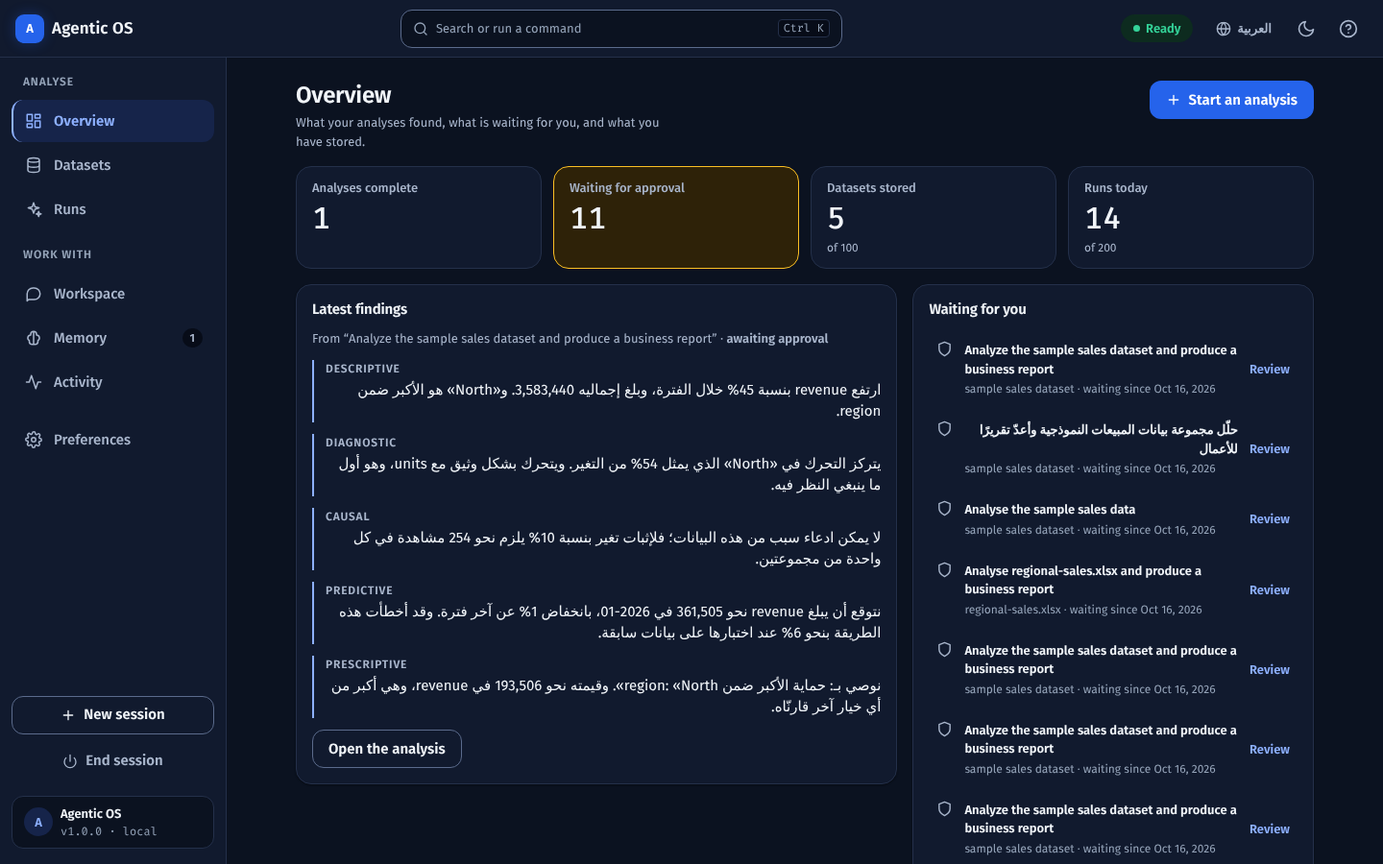
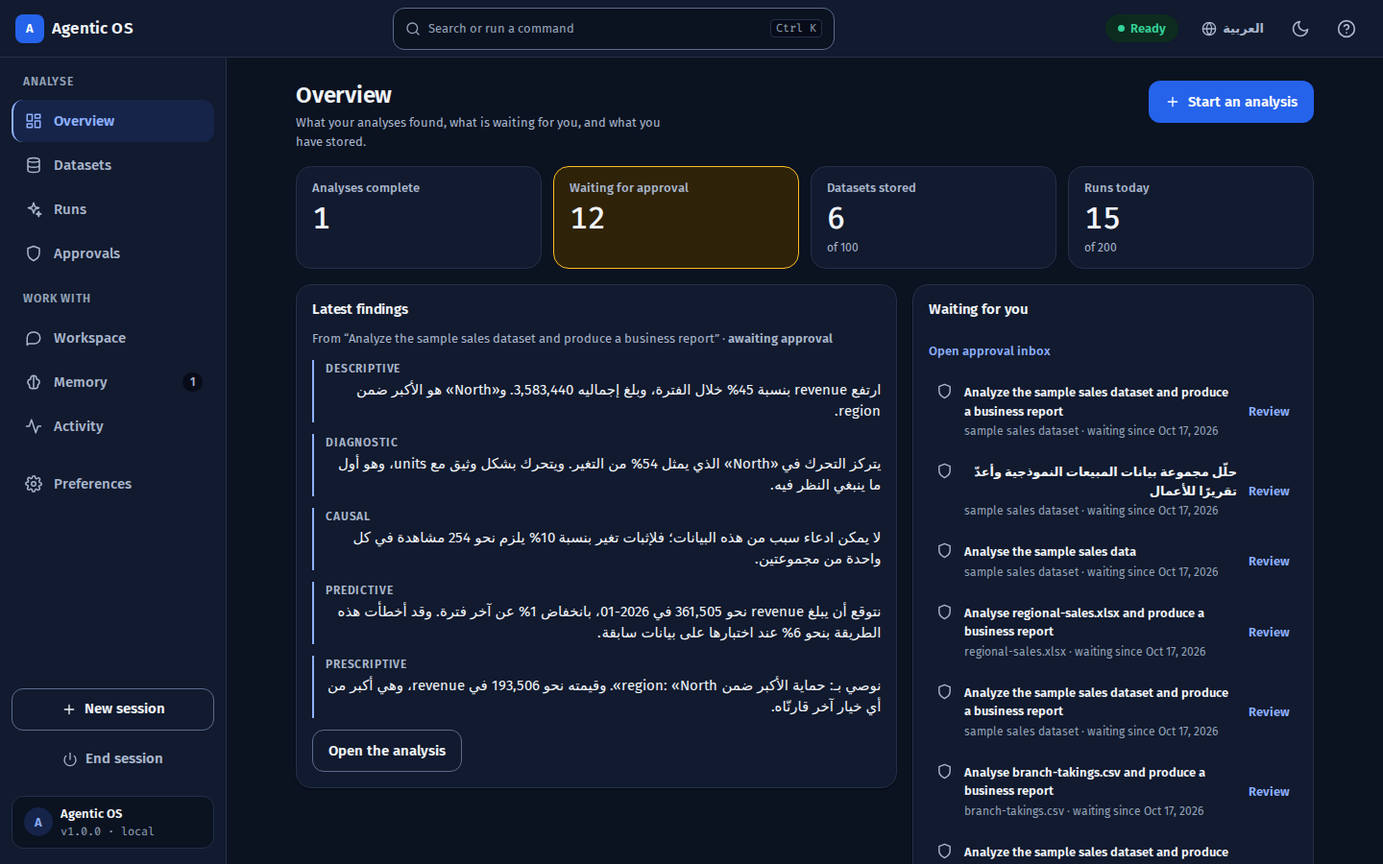
Deliver editable UI handoff, final validation and actual browser screenshots
Link the Figma designs and component/API specification from README. Record the passing final-source CI, bundle sizes, screenshot provenance and remaining human, platform and performance observations. Preserve the concurrent verification entry and its revision-specific Lighthouse results. Replace the screenshot set with real captures from the latest passing backend journey.

diff --git a/docs/design/VALIDATION.md b/docs/design/VALIDATION.md
@@ -1,63 +1,62 @@
 # Interface validation record
 
-Date: 2026-10-17. This record distinguishes source review, executable checks and design previews.
+Date: 2026-10-17. Design previews, executable checks and human usability observations are recorded separately.
 
-## Local evidence
+## Runtime evidence
 
-- The pure Python analytics, assistant, utilities and documentation subset passed. Full API tests stalled inside FastAPI TestClient's AnyIO portal in this execution environment; the two stalled test processes were stopped. No full local-suite pass is claimed.
-- Dependency-free snapshot, event, custom-stage and calculation-table checks passed when executed directly with Node. The frontend package cache is incomplete; npm cannot reach its configured proxy under the current command sandbox, so TypeScript, Vitest, build and browser verification are pending GitHub Actions.
-- The first deterministic review scorecard was 40%: brain and dependency-free checks passed; the three package-dependent gates did not run successfully. This is not a product-quality score. No gate was accepted on the user's behalf.
-- Two independent read-only source reviews found skip-link/hash routing, exact-report availability, Arabic comprehensive calculation headers, dialog overflow, draft recovery, hidden install-event capture and chunk-retry issues. Fixes and regression checks were added. Runtime results are recorded below only after CI produces them.
-- Editable Figma screens were rendered and visually inspected. These are design previews; they do not prove browser behavior, WCAG conformance, native installation or user task timing.
+Final run: [39019826211](https://github.com/ahmadzayan-hub/agentic-os-final-project/actions/runs/39019826211), source `972f581813187abc48e6ae76bdb7b579d47956ad`. Status: **passed**, completed 17 October 2026 at 09:14 UTC.
 
-## Local evidence, Claude Code session, against `d53397d`
+This run verifies the real sample journey, report review and publishing, recovered drafts, delayed-response recovery, report-language preservation, evidence-dialog focus and rendered phone touch targets. Current test counts and expected skips are maintained only in [README](../../README.md#testing).
 
-`python scripts/verify.py --e2e` with PostgreSQL, on 2026-10-17. This environment has npm, PostgreSQL 16 and a pre-installed Chromium, so the package-dependent gates ran here.
+The CI workflow runs the Python suite with PostgreSQL, frontend unit tests, TypeScript and Vite build, strict brain/snapshot contracts, Playwright, axe and the existing interface-budget function. It retains the production bundle, actual browser screenshots and any failure traces in `agentic-ui-evidence`.
 
-- **First run of `8a72368`:**
-    - The type check failed with 19 errors: six new strings sat in the plural dictionaries. Fixed in `5738d39`.
-    - Nine browser checks then failed. One was an app bug: a saved goal draft hid the dataset the reader had just chosen, now scoped per dataset in `ecf0d78`. The rest were tests that predate the kept-alive views and grouped bands.
-- **Result on `d53397d`, all seven steps passed:**
-    - 865 Python tests, 16 skipped for optional libraries;
-    - brain check clean;
-    - type check;
-    - 84 frontend unit tests;
-    - production build;
-    - interface budget;
-    - 80 browser checks: 76 passed, 4 skipped by design because each covers one viewport.
-- **Budget, gzipped:**
-    - first-load JavaScript 91.9 of 100 KB;
-    - all JavaScript 117.2 of 160 KB;
-    - largest on-demand chunk 7.3 of 30 KB;
-    - CSS 9.2 of 10 KB;
-    - fonts 119.4 of 120 KB.
-    - Before ADR 0029, first load was 85.7 KB and CSS 7.7 KB. CSS has 0.8 KB left.
-- **Lighthouse 13.4.1, mobile, three runs on the same build (median):**
-    - Performance 99, Accessibility 100;
-    - first and largest contentful paint 1.55 s;
-    - total blocking time 38 ms;
-    - layout shift 0.000;
-    - 25.2 KB of JavaScript unused at load.
-    - These are lab figures from a local server, not real-user Web Vitals; INP needs real use.
-- `15d8a41` came after this run and is left to CI.
+Earlier runs exposed misplaced translation keys, selectors that assumed inactive views were unmounted, cancellation masked by a retained pause flag, dataset draft context, and drawer focus restoration. These were corrected; assertions about actual backend behavior were retained. Source reviews also corrected exact-artifact review, Arabic table headers, bounded dialogs, install-event capture, language-of-parts tags and lazy-load recovery.
 
-## Required CI evidence
+## Measured budget
 
-The existing CI workflow runs Python with PostgreSQL, frontend unit tests, typecheck/build, Playwright and automated accessibility checks. This change also adds brain/snapshot contracts, the existing interface-budget function, and an `agentic-ui-evidence` artifact containing the production bundle, real browser screenshots and any test traces.
+Final source `972f581`, [CI measurement](https://github.com/ahmadzayan-hub/agentic-os-final-project/actions/runs/39019826211), gzip level 9, decimal KB:
 
-CI commit, workflow URL, measured sizes and final results: pending the branch update and completed workflow. Do not copy historical README counts into this section as current evidence.
+| Shipped resource | Measured | Existing limit |
+| --- | ---: | ---: |
+| First-load JavaScript | 92.0 KB | 100 KB |
+| All JavaScript | 117.4 KB | 160 KB |
+| Largest deferred JavaScript chunk | 7.4 KB | 30 KB |
+| CSS | 9.3 KB | 10 KB |
+| Fonts | 119.4 KB | 120 KB |
 
-## Acceptance targets
+The first-load, total and deferred-chunk limits come from the existing ADR 0028; this implementation did not raise them. New views, translations and recovery behavior add shipped code. The generated decorative WebP adds 53,592 bytes independently of JavaScript and is cached with the shell. No new runtime dependency or font weight was added.
 
-| Target | Evidence required | Current status |
-| --- | --- | --- |
-| Manager identifies main finding and next action within ten seconds | Timed representative-manager usability task | Not observed; finding and decision are explicit in the design and implementation |
-| Evidence reached within two interactions | Browser journey from finding card to evidence | Passes locally on desktop and phone (`d53397d`) |
-| Keyboard-only approval | Browser focus/Enter and dialog navigation | Passes locally on desktop and phone (`d53397d`) |
-| Interrupted draft recovered | Navigate, reload and failed-send recovery | Unit and browser checks pass locally (`d53397d`) |
-| Arabic phone journey | Real Arabic report at 390 px; 320 px overflow check and axe | Passes locally at 390 and 320 px, with axe (`d53397d`) |
-| Both themes, larger text, landscape and reduced motion | Browser/device review | Reduced-motion existing suite retained; additional manual/device review remains open |
-| Windows, Android and iOS installation | Actual platform installation and launcher test | Not observed; browser-guided PWA support only |
-| Bundle and Web Vitals | Production sizes; Lighthouse or real-user performance | Bundle within budget; Lighthouse lab LCP 1.55 s, CLS 0.000, TBT 38 ms (local). No real-user INP |
+Final-source LCP, CLS and INP were not measured. A separate Claude Code environment recorded the earlier `d53397d` build below. Neither those laboratory results nor historical ADR 0028 results measure the final source or real-user INP. A fresh final-source performance run remains open.
 
-Open items remain unaccepted until evidence or an explicit named-owner decision resolves them.
+## Earlier independent local verification
+
+The concurrent Claude Code session recorded `python scripts/verify.py --e2e` with PostgreSQL on `d53397d` in [commit 6e8f254](https://github.com/ahmadzayan-hub/agentic-os-final-project/commit/6e8f2546f7109d7bfa632a75684769697155f713). Its environment had npm, PostgreSQL 16 and pre-installed Chromium. All verification steps passed, including browser and axe checks. Its local optional-library skips differ from CI; current CI counts are maintained in README.
+
+That build measured 91.9 KB first-load JavaScript, 117.2 KB total JavaScript, 7.3 KB largest deferred chunk, 9.2 KB CSS and 119.4 KB fonts. Lighthouse 13.4.1 mobile, median of three runs against the local server: Performance 99, Accessibility 100, first and largest contentful paint 1.55 s, total blocking time 38 ms, layout shift 0.000 and 25.2 KB JavaScript unused at load. These are laboratory observations reported by that session, not measurements repeated in the Codex sandbox or real-user Web Vitals. Later changes include the publication action, evidence initial focus and larger touch targets.
+
+## Acceptance observations
+
+| Target | Observed result and remaining work |
+| --- | --- |
+| Manager identifies finding and next action within ten seconds | Not observed with a representative manager. The finding, state and decision are explicit; a timed human task is still required. |
+| Evidence within two interactions | The browser journey opens returned claims, references and calculation tables directly from a finding. Evidence initially shows its heading; Escape restores the triggering control. |
+| Keyboard approval | The real inbox journey activates Review and the exact report with Enter, tabs to Approve and publish, and waits for server confirmation and its publication path. |
+| Interrupted text recovered | Component checks cover refused sends and remount recovery; browser checks cover navigation/reload of composer and question drafts. A held start response preserves the new destination and the durable analysis can be reopened. |
+| Arabic phone journey | A real Arabic report, evidence table and axe scan pass at 390 px, with the bounded dialog and no page overflow also checked at 320 px. Stored English report parts retain English after switching the interface to Arabic. |
+| 44 × 44 px targets | The Arabic-phone browser regression measures every visible button in the run cockpit and passes the minimum dimensions. Shared styles enlarge compact controls; switches preserve their visual track inside a larger touch area. This task is not a complete real-device target audit. |
+| Responsive layouts and themes | The retained suite covers desktop and phone, 320/768/1024 px layouts, light/dark, English/Arabic, and reduced motion. Larger text, broader landscape use and assistive-technology testing remain human review tasks. |
+| Windows, Android and iOS | PWA manifest, install-event handling, safe-area layout and bilingual browser installation guidance are delivered. Actual installation on those operating systems was not observed; signed native packages are outside this delivery. |
+
+Question and composer drafts stay in sessionStorage for this tab/session. Pasted CSV and selected File objects require re-selection after reload; raw data is excluded from draft storage. API responses are never service-worker cached, so a cold offline launch can recover the shell but cannot fetch private reports.
+
+Repeated clicks are guarded and consequential failed POSTs are reconciled by reading state, without automatic replay. An uncertain run-creation response still needs review of recent analyses: server idempotency keys for creation are a separate API proposal. Same-analysis multi-tab behavior is specified against authoritative server snapshots and leases; a separate two-tab browser task was not performed.
+
+## Design and local evidence
+
+[Figma](https://www.figma.com/design/nLdKZ5cVOtRMTWEvhCJSEK) contains native editable components and representative English/Arabic, light/dark, desktop/phone frames. They were rendered and visually inspected. They are design previews, not application screenshots.
+
[1 lines of base64/hex data omitted]
+
+In the Codex workspace, strict brain, documentation and dependency-free snapshot checks passed. npm access was blocked by the command sandbox, and full API attempts stalled in TestClient's AnyIO portal; no full-suite pass in this sandbox is claimed. The independent local session above and GitHub Actions supply runtime evidence. The first Codex deterministic scorecard was 40% because package-dependent gates could not execute; it is not a product-quality score or an accepted exception.
+
+Open human, native-device and performance observations remain unaccepted until evidence or an explicit named-owner decision resolves them.

diff --git a/docs/design/AGENTIC_UI_SPEC.md b/docs/design/AGENTIC_UI_SPEC.md
@@ -22,7 +22,7 @@ Addresses are `#/overview`, `#/datasets`, `#/runs`, `#/runs/{id}`, `#/approvals`
 4. **Inspect:** show the first finding in the header, four main perspective cards, and the separate Experiment report. “Why is this true?” opens the relevant stage's claims, references, precise checks and report calculations.
 5. **Review:** display the exact report and publication metadata in ApprovalCard. The full report is available through an expandable, bounded, keyboard-scrollable preview. A missing report disables publishing.
 6. **Approve or reject:** lock the decision while awaiting the server. A failure triggers a state read; it never automatically repeats publication. A changed artifact requires a valid new server approval.
-7. **Published:** show success only when `report.published_path` is returned. Display that path. Reopen the run from its link for later review. The server filesystem path is text, not an invented web URL.
+7. **Published:** show success only when `report.published_path` is returned. Display that path and make “Read the published report” the primary action; it focuses the exact returned report. Reopen the run from its link for later review. The server filesystem path is text, not an invented web URL.
 
 ## Screen inventory and Figma
 
@@ -52,7 +52,7 @@ Representative source facts: revenue rose 45%, total revenue 3,583,440; North is
 | EvidencePanel | Reach support within one finding action; task claims/evidence, checks and report content | Current React | Empty claims/calculations explain availability; bounded dialog, horizontal table region, Escape and focus restoration |
 | ApprovalCard / ApprovalsView | Decide on exact artifact; `listRuns`, `getRun`, `decideApproval`, RunApproval and report identity/version/content | Current React | Loading/retry, exact preview, disabled pending buttons; reconcile refusals without replaying POST; show path only after server confirmation |
 | ResultCard / ToolCards | Move from conversation to result; TranscriptEntry action/result/steps | Current React | Recognize start_run/run_status/explain_report/runtime plus returned run ID; memory/preference labels; unknown action remains plain text; failed run read keeps navigation available |
-| Composer / question draft | Recover interrupted text; existing send operation and scoped sessionStorage | Current React | Keep input after a refused/failed send; retain edits made during sending; text survives reload in the same tab; unavailable storage falls back to live state |
+| Composer / question draft | Recover interrupted text; existing send operation and scoped sessionStorage | Current React | Keep input after a refused/failed send; retain edits made during sending; questions are scoped to their dataset preset; restored user text is distinct from generated suggestions; unavailable storage falls back to live state |
 | InstallApp / installStore | Use the workspace from OS launcher; beforeinstallprompt, appinstalled, standalone detection | Current PWA enhancement | Capture event at boot; browser-confirmed installed state; failed prompt offers browser-menu instructions; server needed for operations |
 | Memory / Activity / Preferences | Maintain context; existing session APIs and activity store | Existing capability retained | Search/edit/delete confirmation, timestamped health and existing operation outcomes; both languages and themes |
 | Structured calculation resolver | Directly open a particular calculation from `c_change` | Future API | Needs calculation ID, label, value, units, method, source references and report identity/version; no inferred client mapping |
@@ -81,7 +81,7 @@ Use `tokens.css` as authority: navy/blue/amber, flat surfaces, restrained border
 
 At 1440 px the cockpit has findings plus contextual workflow; below 1200 px it becomes one column. At 768 px retain readable gutters, wrap context and actions. At 390 px the workflow starts collapsed, evidence uses a bounded dialog, and bottom navigation leaves safe-area clearance. At 320 px tables scroll in labelled regions while the page stays within the viewport. Keep the cockpit's essential controls sticky; long goals and large text need browser validation so they do not obscure focus.
 
-Use 44 × 44 CSS px minimum controls, visible focus, semantic buttons/details/tabs and restrained polite announcements of actual changes. Dialogs trap focus and restore it. The navigation drawer traps Tab and makes the main area inert. The command palette supports Ctrl/⌘K. Status includes words and symbols. Respect both system and app reduced-motion choices; retain 140/220 ms token transitions otherwise.
+Use 44 × 44 CSS px minimum controls, visible focus, semantic buttons/details/tabs and restrained polite announcements of actual changes. Compact legacy buttons are enlarged, and switches keep their visual track inside a larger touch area. Dialogs trap focus and restore it; long evidence opens at the dialog heading rather than jumping to a table. The navigation drawer traps Tab, makes the main area inert and restores its opener. The command palette supports Ctrl/⌘K. Status includes words and symbols. Respect both system and app reduced-motion choices; retain 140/220 ms token transitions otherwise.
 
 Arabic mirrors application navigation, rows and alignment using document RTL and logical properties. Mixed filenames and paths use bdi or explicit direction. Digits remain 0–9. Stored report language is fixed at run creation and has its own lang/dir, independent of interface language.
 

diff --git a/project-progress.md b/project-progress.md
@@ -41,12 +41,12 @@ Last updated: 2026-10-17, session `7ba0117d`. The session-end skill keeps this f
     - The typeface is IBM Plex Sans with IBM Plex Sans Arabic, the user's choice; Dubai can replace it if its files are supplied.
 - **House style: done 2026-10-17.** `.claude/skills/rta-style/` (colours, type and layout only, no logo, name or data) themes the offline dashboards, the clips and the evaluation report, checked for AA contrast in light and dark.
 - **Views load on demand: done 2026-10-17** (ADR 0028). The chat and the shell ship first; the other views and dialogs are chunks fetched when shown, and prefetched in idle time. First load fell from 96.7 to 85.7 KB gzipped, and Lighthouse's unused script halved, but load speed did not measurably change (mobile 98 against 99, largest paint 2.13 s both). The budget now counts the first load, all scripts and the largest chunk.
-- **Governed UI, implementation under verification (ADR 0029):** editable Figma light/dark and Arabic phone designs, shared run snapshots, grouped progress, exact-report approvals inbox, evidence dialog, assistant result cards, hash deep links, scoped text drafts, upload previews and PWA installation guidance. Existing on-demand loaders and their idle prefetch are retained. [Handoff and actual validation status](docs/design/AGENTIC_UI_SPEC.md). Verified locally on `d53397d`: all seven `verify.py --e2e` steps, with 76 of 80 browser checks run and passing and 4 skipped by design. First-load JavaScript is 91.9 of 100 KB and CSS 9.2 of 10 KB. Lighthouse mobile scored 99, with largest paint 1.55 s. Results are in [docs/design/VALIDATION.md](docs/design/VALIDATION.md). CI confirmation and the human and device checks are still open.
-- **Next build: A3, several datasets per run (ADR 0030, proposed)**, and the workbook sheet picker. The governed UI adds deep links, pending CI verification.
+- **Governed UI, delivered 2026-10-17 (ADR 0029):** editable Figma light/dark and Arabic phone designs, shared run snapshots, grouped progress, exact-report approvals inbox, evidence dialog, assistant result cards, hash deep links, scoped text drafts, upload previews and PWA installation guidance. Existing on-demand loaders and their idle prefetch are retained. The real publishing journey, recovery, keyboard review, Arabic phone layout and bundle checks pass in [CI 39019826211](https://github.com/ahmadzayan-hub/agentic-os-final-project/actions/runs/39019826211). [Design handoff](docs/design/AGENTIC_UI_SPEC.md), [actual screenshots](docs/screenshots/) and [validation with open observations](docs/design/VALIDATION.md).
+- **Next build: A3, several datasets per run (ADR 0030, proposed)**, and the workbook sheet picker. Hash deep links are delivered.
 
 ## Next
 
-1. Governed UI: confirm CI is green on the latest commit. Then run the human ten-second task and real-device installs. CSS has 0.8 KB of budget left, so trim it or raise the limit with an ADR before adding styles.
+1. Observe the manager's timed review task, real Windows/Android/iOS PWA installation and assistive-technology use; measure fresh Web Vitals. Automated interface checks and bundle budgets pass; see the validation record for the remaining observations. CSS is near its existing limit, so trim before adding styles or record a justified budget change in an ADR.
 2. A3: several datasets per run, with declared join keys (ADR 0030, proposed); workbook sheet selection (phase 2).
 3. Harder reviewer memos (subtler defects, longer documents), so prompt changes can be measured. For intent and causal wording, try a model behind the rules once a rotated key or a local model is available; the rules plateau near 70% on blind sets.
 4. Invite the team as collaborators and protect the default branch (owner action, on GitHub).

diff --git a/session-logs.md b/session-logs.md
@@ -461,10 +461,10 @@ The first entries were written from the commit history and the session's own rec
 
 ## 2026-10-17 — Codex: governed interface and professional design handoff
 
-- **Done:** read repository instructions and the attached product brief; synchronized the working snapshot with remote head `49972e7`, preserving the concurrent agent-evaluation work. Applied the repository UI/UX Pro Max workflow and React review guidance. Created an editable Figma component inventory, desktop light/dark screens and Arabic phone screens; generated and encoded an original decorative WebP. Implemented the sample analysis journey, shared snapshots, evidence, exact-report inbox approvals, assistant cards, deep links, tab-scoped text drafts and PWA guidance (ADR 0029). Added source-dated reference research and component/API handoff.
-- **Verified:** pure analytics/assistant/utilities/docs Python subset; dependency-free Node checks; strict brain check. The first review-gate score was 40%, because npm package-dependent gates could not execute locally. Two read-only source reviews produced concrete fixes. Figma renders are design previews, not browser screenshots. Full CI results are pending the branch update; see `docs/design/VALIDATION.md`.
+- **Done:** read repository instructions and the attached product brief; synchronized with concurrent remote agent-evaluation, lazy-loading and documentation changes. Applied the repository UI/UX Pro Max workflow and React review guidance. Created an editable Figma component inventory, desktop light/dark screens and Arabic phone screens; generated and encoded an original decorative WebP. Implemented the sample analysis journey, shared snapshots, evidence, exact-report inbox approvals, assistant cards, deep links, tab-scoped text drafts and PWA guidance (ADR 0029). Added source-dated reference research and component/API handoff. Published incrementally to the existing default branch, preserving concurrent commits.
+- **Verified:** [final source CI 39019826211](https://github.com/ahmadzayan-hub/agentic-os-final-project/actions/runs/39019826211) passes Python with PostgreSQL, TypeScript, frontend units, build, browser journeys, axe and bundle budgets. Current counts are in README. The browser suite checks keyboard review/approval, delayed responses after navigation, recovered drafts, retained report language, evidence focus and measured phone button sizes. Copied actual CI screenshots and visually inspected representative captures. Two read-only source reviews produced concrete fixes. Local strict brain, docs and dependency-free snapshot checks pass. [Validation](docs/design/VALIDATION.md) records exact measurements and distinguishes Figma previews from runtime evidence.
 - **Decided:** preserve FastAPI snapshots and client-stepped execution; add no frontend dependencies or UI kit. No native signed packages or future dashboard APIs are claimed. Pasted raw CSV is excluded from browser draft persistence. Follow current ingestion/mapping contracts rather than the older brief's limits.
-- **Next:** inspect GitHub Actions, fix type/build/browser/budget failures, record actual screenshots and measurements, then complete the validation record. Human ten-second comprehension and real-device installation need observed tasks.
+- **Next:** observe ten-second manager comprehension, real-device PWA installation, broader assistive-technology use and fresh Web Vitals. Server idempotency for uncertain run creation, workbook sheet selection and multi-dataset analyses remain separate proposals.
 
 ## 2026-10-17 (governed UI verification) · `7ba0117d` · claude/agentic-os-final-project-53j6ql
 

diff --git a/README.md b/README.md
@@ -14,8 +14,15 @@ environment — not a replacement for Windows, macOS, or Linux.
 
 ![Agentic OS — the Overview: key figures, the latest findings and the approval queue](docs/screenshots/desktop-overview-light.png)
 
+[Editable Figma designs](https://www.figma.com/design/nLdKZ5cVOtRMTWEvhCJSEK) ·
+[UI specification and API mapping](docs/design/AGENTIC_UI_SPEC.md) ·
+[Current verification and platform scope](docs/design/VALIDATION.md)
+
 ## Main Features
 
+- **Governed analysis workspace** — grouped specialist progress, findings and evidence,
+  an exact-report approval inbox, server-confirmed publishing, addressable runs,
+  recovered text drafts and installable PWA guidance for Windows, Android and iOS
 - **Web workspace** — a responsive React application with a greeting hero,
   conversation view, centered command search and palette (Ctrl/⌘+K),
   activity timeline with session health, onboarding, and a token-based
